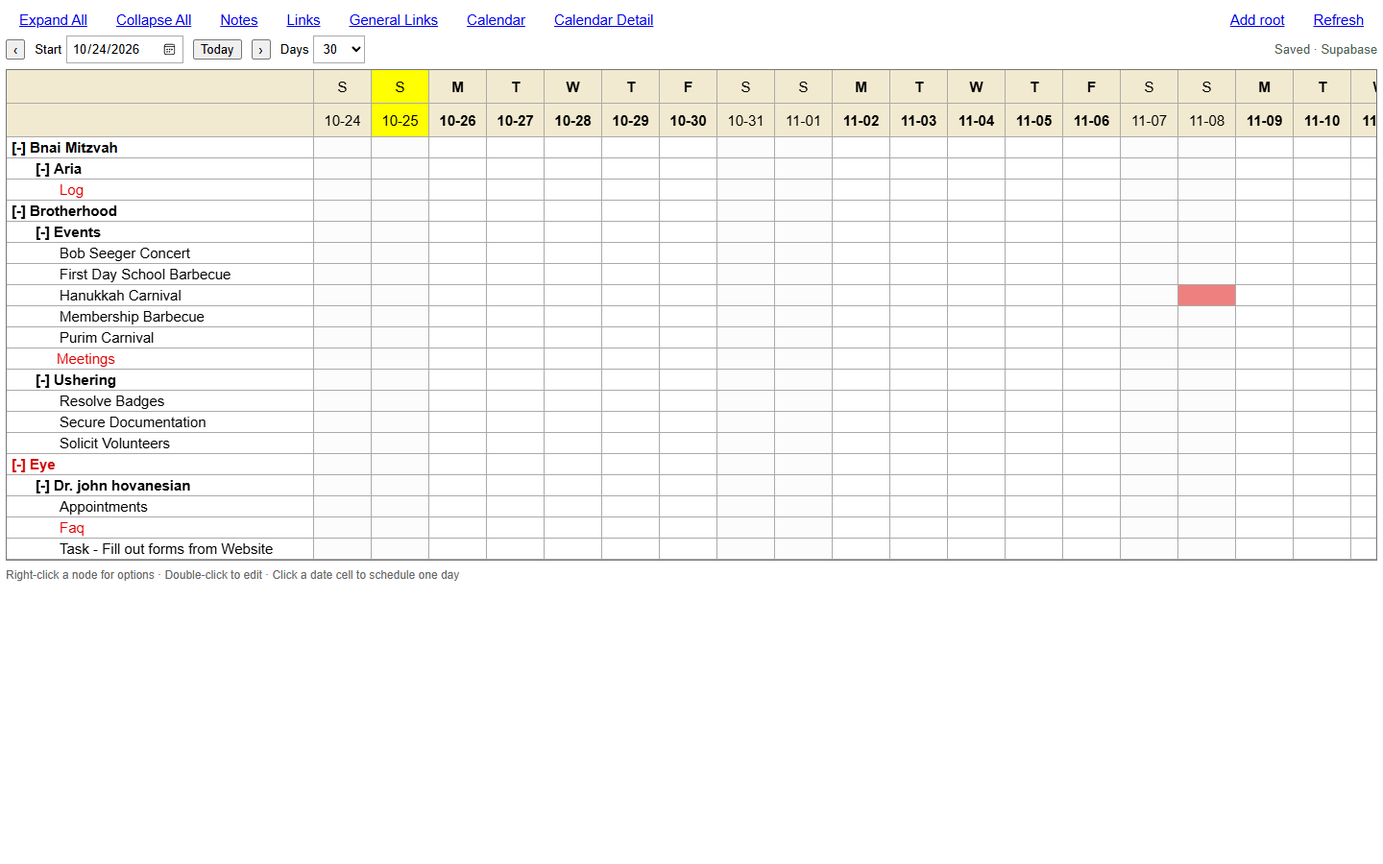
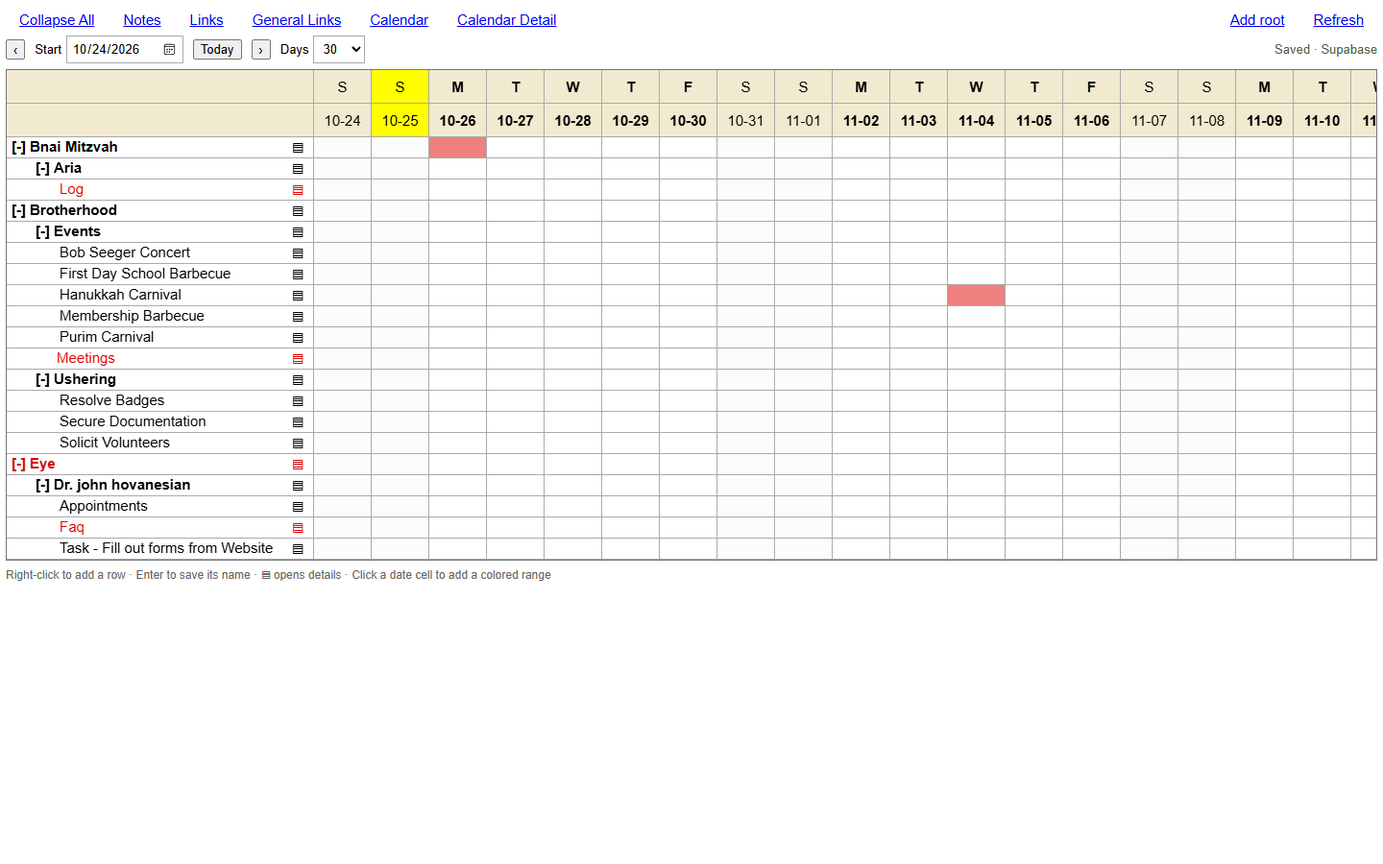
Add inline node creation, expand toggle, and multiple colored date ranges

diff --git a/src/app.js b/src/app.js
@@ -2,7 +2,7 @@ import './style.css';
 import * as api from './api.js';
 import {children,level,height,visible,actions,iso,addDays} from './model.js';
 const $=s=>document.querySelector(s), el=(tag,text)=>{const n=document.createElement(tag);if(text!==undefined)n.textContent=text;return n;};
-let nodes=[],selected=null,collapsed=new Set(JSON.parse(localStorage.getItem('gantt03-collapsed')||'[]')),busy=false,editing=null;
+let nodes=[],selected=null,collapsed=new Set(JSON.parse(localStorage.getItem('gantt03-collapsed')||'[]')),busy=false,editing=null,draft=null;
 const start=$('#range-start');start.value=addDays(iso(new Date()),-1);
 function status(message,error=false){$('#status').textContent=message;$('#status').classList.toggle('error',error);}
 function remember(){localStorage.setItem('gantt03-collapsed',JSON.stringify([...collapsed]));}
@@ -10,18 +10,58 @@ async function refresh(){try{nodes=await api.load();render();status('Saved · Su
 async function mutate(fn){if(busy)return;busy=true;status('Saving…');try{await fn();await refresh();}catch(e){status(e.message,true);throw e;}finally{busy=false;}}
 function dates(){return Array.from({length:Number($('#days').value)},(_,i)=>addDays(start.value,i));}
 function select(id){selected=id;document.querySelectorAll('.node[data-id]').forEach(n=>n.classList.toggle('selected',n.dataset.id===id));}
-function render(){const table=el('table'),head=el('thead'),days=dates();
+function render(){const parents=nodes.filter(n=>children(nodes,n.id).length),anyCollapsed=parents.some(n=>collapsed.has(n.id));$('#expand-toggle').textContent=anyCollapsed?'Expand All':'Collapse All';$('#expand-toggle').setAttribute('aria-expanded',String(!anyCollapsed));const table=el('table'),head=el('thead'),days=dates();
  for(let row=0;row<2;row++){const tr=el('tr'),blank=el('th');blank.className='node head';blank.setAttribute('aria-label',row?'Dates':'Nodes');tr.append(blank);for(const day of days){const d=new Date(day+'T12:00:00'),th=el('th',row?day.slice(5):['S','M','T','W','T','F','S'][d.getDay()]);th.className=(d.getDay()%6===0?'weekend':'weekday')+(day===iso(new Date())?' today':'');th.title=d.toLocaleDateString(undefined,{weekday:'long',year:'numeric',month:'long',day:'numeric'});tr.append(th);}head.append(tr);}table.append(head);
  const body=el('tbody');for(const node of visible(nodes,collapsed)){const tr=el('tr'),td=el('td'),hasChildren=children(nodes,node.id).length>0;td.className='node'+(hasChildren?' parent':'')+(selected===node.id?' selected':'');td.dataset.id=node.id;td.tabIndex=0;td.style.paddingLeft=`${5+(node.depth-1)*25}px`;td.style.color=node.text_color;td.title=`${node.title} · Level ${node.depth}${node.notes?' · Has notes':''}`;
  if(hasChildren){const toggle=el('button',collapsed.has(node.id)?'[+]':'[-]');toggle.className='toggle';toggle.setAttribute('aria-label',`${collapsed.has(node.id)?'Expand':'Collapse'} ${node.title}`);toggle.setAttribute('aria-expanded',String(!collapsed.has(node.id)));toggle.onclick=e=>{e.stopPropagation();collapsed.has(node.id)?collapsed.delete(node.id):collapsed.add(node.id);remember();render();};td.append(toggle);}else if(node.depth<3){const space=el('span','');space.style.display='inline-block';space.style.width='22px';td.append(space);}
- td.append(document.createTextNode(node.title));td.onclick=()=>select(node.id);td.ondblclick=()=>openEditor('Edit',node);td.oncontextmenu=e=>{e.preventDefault();select(node.id);openMenu(node,e.clientX,e.clientY);};td.onkeydown=e=>{if(e.key==='ContextMenu'||(e.shiftKey&&e.key==='F10')){e.preventDefault();const r=td.getBoundingClientRect();select(node.id);openMenu(node,r.left+30,r.bottom);}if(e.key==='Enter'){select(node.id);openEditor('Edit',node);}};tr.append(td);
- for(const day of days){const cell=el('td');const d=new Date(day+'T12:00:00');cell.className='cell'+(d.getDay()%6===0?' weekend-cell':'');if(node.start_date&&day>=node.start_date&&day<=(node.end_date||node.start_date)){cell.classList.add('bar');cell.style.setProperty('--bar',node.color);}cell.title=`${node.title} · ${day}`;cell.onclick=()=>{select(node.id);openEditor('Edit',node,day);};tr.append(cell);}body.append(tr);}table.append(body);$('#chart').replaceChildren(table);if(!nodes.length){const empty=el('p','No nodes yet. Use Add root to begin.');empty.className='empty';$('#chart').append(empty);}}
-function openMenu(node,x,y){const menu=$('#menu');menu.replaceChildren();for(const action of actions(nodes,node)){const button=el('button',action);button.setAttribute('role','menuitem');button.onclick=()=>{menu.hidden=true;if(action==='Delete')deleteNode(node);else openEditor(action,node);};menu.append(button);}menu.hidden=false;const r=menu.getBoundingClientRect();menu.style.left=`${Math.max(0,Math.min(x,innerWidth-r.width-8))}px`;menu.style.top=`${Math.max(0,Math.min(y,innerHeight-r.height-8))}px`;menu.firstChild.focus();}
+ const detail=el('button','▤');detail.className='node-detail';detail.setAttribute('aria-label',`Details for ${node.title}`);detail.onclick=e=>{e.stopPropagation();select(node.id);openEditor('Edit',node);};td.append(detail,document.createTextNode(node.title));td.onclick=()=>select(node.id);td.ondblclick=()=>openEditor('Edit',node);td.oncontextmenu=e=>{e.preventDefault();select(node.id);openMenu(node,e.clientX,e.clientY);};td.onkeydown=e=>{if(e.target!==td)return;if(e.key==='ContextMenu'||(e.shiftKey&&e.key==='F10')){e.preventDefault();const r=td.getBoundingClientRect();select(node.id);openMenu(node,r.left+30,r.bottom);}if(e.key==='Enter'){select(node.id);openEditor('Edit',node);}};tr.append(td);
+ for(const day of days){const cell=el('td');const d=new Date(day+'T12:00:00');cell.className='cell'+(d.getDay()%6===0?' weekend-cell':'');const colors=barColors(node,day);if(colors.length){cell.classList.add('bar');cell.style.setProperty('--bar',colorFill(colors));}cell.title=`${node.title} · ${day}${colors.length?' · '+colors.join(', '):''}`;cell.onclick=()=>{select(node.id);openEditor('Edit',node,day);};tr.append(cell);}if(draft?.action==='Add parent'&&draft.node.id===node.id)body.append(draftRow(days.length,node.depth));body.append(tr);if(draft?.action==='Add child'&&draft.node.id===node.id)body.append(draftRow(days.length,node.depth+1));}if(draft?.action==='Add root')body.append(draftRow(days.length,1));table.append(body);$('#chart').replaceChildren(table);if(!nodes.length&&!draft){const empty=el('p','No nodes yet. Use Add root to begin.');empty.className='empty';$('#chart').append(empty);}}
+function openMenu(node,x,y){const menu=$('#menu');menu.replaceChildren();for(const action of actions(nodes,node)){const button=el('button',action);button.setAttribute('role','menuitem');button.onclick=()=>{menu.hidden=true;if(action==='Delete')deleteNode(node);else if(action==='Edit')openEditor(action,node);else startDraft(action,node);};menu.append(button);}menu.hidden=false;const r=menu.getBoundingClientRect();menu.style.left=`${Math.max(0,Math.min(x,innerWidth-r.width-8))}px`;menu.style.top=`${Math.max(0,Math.min(y,innerHeight-r.height-8))}px`;menu.firstChild.focus();}
 document.addEventListener('pointerdown',e=>{if(!$('#menu').contains(e.target))$('#menu').hidden=true;});document.addEventListener('keydown',e=>{if(e.key==='Escape')$('#menu').hidden=true;const m=$('#menu');if(!m.hidden&&['ArrowDown','ArrowUp'].includes(e.key)){e.preventDefault();const a=[...m.children],i=a.indexOf(document.activeElement);a[(i+(e.key==='ArrowDown'?1:a.length-1))%a.length].focus();}});
-function openEditor(action,node=null,day=null){if(busy)return;if(action==='Add parent'&&level(nodes,node)+height(nodes,node)>4){showPanel('Four-level limit',content=>content.append(el('p','Adding a parent would move a descendant beyond level four. Remove or reorganize that branch first.')));return;}
- editing={action,node};const form=$('#form');form.reset();$('#form-error').textContent='';$('#dialog-title').textContent=action==='Add root'?'Add root':action;$('#dialog-context').textContent=node?`${node.title} · Level ${level(nodes,node)}`:'New level-one node';for(const name of ['title','start_date','end_date','color','text_color','notes','links']){const input=form.elements.namedItem(name);input.value=action==='Edit'?(node[name]||''):(name==='color'?'#ef8080':name==='text_color'?'#000000':'');}if(day){form.elements.start_date.value=day;form.elements.end_date.value=day;}const parentOnly=action==='Add parent';for(const name of ['start_date','end_date','color','text_color','notes','links'])form.elements.namedItem(name).closest('label').hidden=parentOnly;$('#editor').showModal();form.elements.title.focus();}
+function barRanges(node){return Array.isArray(node.bars)?node.bars:(node.start_date?[{start_date:node.start_date,end_date:node.end_date||node.start_date,color:node.color}]:[]);}
+function barColors(node,day){return [...new Set(barRanges(node).filter(b=>day>=b.start_date&&day<=(b.end_date||b.start_date)).map(b=>/^#[0-9a-f]{6}$/i.test(b.color)?b.color:'#ef8080'))];}
+function colorFill(colors){return colors.length===1?colors[0]:`linear-gradient(to bottom,${colors.map((c,i)=>`${c} ${i*100/colors.length}% ${(i+1)*100/colors.length}%`).join(',')})`;}
+function startDraft(action,node=null){
+ if(busy)return;if(draft){status('Finish or cancel the new row first.',true);$('#draft-name')?.focus();return;}
+ if(action==='Add parent'&&level(nodes,node)+height(nodes,node)>4){showPanel('Four-level limit',c=>c.append(el('p','Adding a parent would move a descendant beyond level four.')));return;}
+ if(action==='Add child'&&level(nodes,node)>=4)return;
+ draft={action,node,title:''};if(node)collapsed.delete(action==='Add child'?node.id:node.parent_id);remember();render();$('#draft-name').focus();$('#draft-name').scrollIntoView({block:'nearest',inline:'nearest'});
+}
+function draftRow(dayCount,depth){
+ const tr=el('tr'),td=el('td');tr.className='draft-row';td.className='node draft-node';td.style.paddingLeft=`${5+(depth-1)*25}px`;
+ const name=el('input');name.id='draft-name';name.placeholder='New '+(draft.action==='Add parent'?'parent':draft.action==='Add child'?'child':'root');name.setAttribute('aria-label','New node name');name.maxLength=300;name.value=draft.title;name.disabled=busy;name.oninput=()=>{draft.title=name.value;};name.onkeydown=e=>{e.stopPropagation();if(e.key==='Enter'){e.preventDefault();saveDraft(false);}if(e.key==='Escape'){draft=null;render();}};
+ const save=el('button','✓');save.setAttribute('aria-label','Save new row');save.onclick=()=>saveDraft(false);
+ const detail=el('button','▤');detail.setAttribute('aria-label','Save new row and open details');detail.onclick=()=>saveDraft(true);
+ const cancel=el('button','×');cancel.setAttribute('aria-label','Cancel new row');cancel.onclick=()=>{if(busy)return;draft=null;render();};
+ for(const b of [save,detail,cancel]){b.className='draft-action';b.disabled=busy;}
+ td.append(name,save,detail,cancel);tr.append(td);const rest=el('td');rest.colSpan=dayCount;rest.className='draft-hint';rest.textContent='Type a name · Enter or ✓ to save · ▤ for dates, colors and notes';tr.append(rest);return tr;
+}
+async function saveDraft(details){
+ if(!draft||busy)return;const pending=draft,title=pending.title.trim();if(!title){status('Enter a name for the new row.',true);$('#draft-name').focus();return;}
+ let id;try{await mutate(async()=>{if(pending.action==='Add parent'){id=await api.addParent(pending.node.id,title);}else{const parent_id=pending.action==='Add child'?pending.node.id:null;const siblings=children(nodes,parent_id);const position=pending.action==='Add child'?Math.min(0,...siblings.map(n=>n.position))-1:Math.max(0,...siblings.map(n=>n.position))+1;const [created]=await api.create({title,parent_id,position});id=created.id;}draft=null;selected=id;collapsed.delete(id);remember();});if(details){const node=nodes.find(n=>n.id===id);if(node)openEditor('Edit',node);}}catch{render();$('#draft-name')?.focus();}
+}
+function addRange(bar={}){
+ const row=el('div');row.className='bar-range';
+ for(const [name,label,type,value] of [['start_date','Start','date',bar.start_date||''],['end_date','End','date',bar.end_date||bar.start_date||''],['color','Color','color',bar.color||'#ef8080']]){const l=el('label',label),input=el('input');input.type=type;input.dataset.field=name;input.value=value;input.required=true;l.append(input);row.append(l);}
+ const remove=el('button','×');remove.type='button';remove.setAttribute('aria-label','Remove color range');remove.onclick=()=>row.remove();row.append(remove);$('#bar-ranges').append(row);return row;
+}
+$('#add-range').onclick=()=>addRange({start_date:iso(new Date()),end_date:iso(new Date())});
+function openEditor(action,node,day=null){
+ if(busy)return;editing={action,node};const form=$('#form');form.reset();$('#form-error').textContent='';$('#dialog-title').textContent='Edit node';$('#dialog-context').textContent=`${node.title} · Level ${level(nodes,node)}`;
+ for(const name of ['title','text_color','notes','links'])form.elements.namedItem(name).value=node[name]||'';
+ $('#bar-ranges').replaceChildren();for(const bar of barRanges(node))addRange(bar);
+ if(day&&!barColors(node,day).length)addRange({start_date:day,end_date:day});
+ $('#editor').showModal();form.elements.title.focus();
+}
 $('#cancel').onclick=()=>$('#editor').close();
-$('#form').onsubmit=async e=>{e.preventDefault();const form=e.currentTarget,data=Object.fromEntries(new FormData(form));data.title=data.title.trim();data.start_date=data.start_date||null;data.end_date=data.end_date||null;if(!data.title){$('#form-error').textContent='Enter a name.';return;}if(data.end_date&&(!data.start_date||data.end_date<data.start_date)){$('#form-error').textContent='Choose a start date and an end date on or after it.';return;}$('#save').disabled=true;$('#cancel').disabled=true;const {action,node}=editing;try{await mutate(async()=>{if(action==='Add parent'){await api.addParent(node.id,data.title);collapsed.delete(node.parent_id);}else if(action==='Edit'){await api.update(node.id,data);}else{const parent_id=action==='Add child'?node.id:null;const position=Math.max(0,...children(nodes,parent_id).map(n=>n.position))+1;await api.create({...data,parent_id,position});collapsed.delete(parent_id);}remember();});$('#editor').close();}catch(e){$('#form-error').textContent=e.message;}finally{$('#save').disabled=false;$('#cancel').disabled=false;}};
+$('#editor').addEventListener('cancel',e=>{if(busy)e.preventDefault();});
+$('#form').onsubmit=async e=>{
+ e.preventDefault();const form=e.currentTarget,data=Object.fromEntries(new FormData(form));data.title=data.title.trim();if(!data.title){$('#form-error').textContent='Enter a name.';return;}
+ data.bars=[...document.querySelectorAll('.bar-range')].map(row=>Object.fromEntries([...row.querySelectorAll('input')].map(input=>[input.dataset.field,input.value])));
+ if(data.bars.some(b=>!b.start_date||!b.end_date||b.end_date<b.start_date)){$('#form-error').textContent='Each color range needs an end date on or after its start date.';return;}
+ data.start_date=data.bars[0]?.start_date||null;data.end_date=data.bars[0]?.end_date||null;data.color=data.bars[0]?.color||'#ef8080';
+ $('#save').disabled=true;$('#cancel').disabled=true;try{await mutate(()=>api.update(editing.node.id,data));$('#editor').close();}catch(e){$('#form-error').textContent=e.message;}finally{$('#save').disabled=false;$('#cancel').disabled=false;}
+};
 function deleteNode(node){const count=(function descendants(id){return children(nodes,id).reduce((s,n)=>s+1+descendants(n.id),0);})(node.id);showPanel('Delete node',content=>{content.append(el('p',`Delete “${node.title}”${count?` and its ${count} descendant${count===1?'':'s'}`:''}?`));const button=el('button','Delete');button.onclick=async()=>{button.disabled=true;try{await mutate(()=>api.remove(node.id));if(selected===node.id)selected=null;$('#panel').close();}catch(e){content.append(el('p',e.message));button.disabled=false;}};content.append(button);});}
 function showPanel(title,fill){$('#panel-title').textContent=title;$('#panel-content').replaceChildren();fill($('#panel-content'));$('#panel').showModal();}
 $('#panel-close').onclick=()=>$('#panel').close();
@@ -30,8 +70,8 @@ $('#notes').onclick=()=>{const n=selectedNode();if(n){openEditor('Edit',n);$('#f
 function appendLinks(content,text){for(const line of text.split('\n').filter(l=>l.trim())){try{const url=new URL(line.trim());if(!['http:','https:'].includes(url.protocol))throw Error();const a=el('a',line);a.href=url.href;a.target='_blank';a.rel='noopener noreferrer';content.append(a,el('br'));}catch{content.append(el('p',line));}}}
 $('#links').onclick=()=>{const n=selectedNode();if(n)showPanel(`Links · ${n.title}`,c=>{if(n.links)appendLinks(c,n.links);else c.append(el('p','No links yet.'));const b=el('button','Edit links');b.onclick=()=>{$('#panel').close();openEditor('Edit',n);$('#form').elements.links.focus();};c.append(b);});};
 $('#general').onclick=async()=>{try{const [settings]=await api.request('gantt03_settings?id=eq.1');showPanel('General Links',c=>{appendLinks(c,settings.general_links);const label=el('label','URLs, one per line'),text=el('textarea');text.rows=7;text.value=settings.general_links;label.append(text);c.append(label);const save=el('button','Save links');save.onclick=async()=>{save.disabled=true;try{await mutate(()=>api.request('gantt03_settings?id=eq.1','PATCH',{general_links:text.value}));$('#panel').close();}catch(e){c.append(el('p',e.message));save.disabled=false;}};c.append(save);});}catch(e){status(e.message,true);}};
-function calendar(detail){showPanel(detail?'Calendar Detail':'Calendar',c=>{const end=addDays(start.value,Number($('#days').value)-1),scheduled=nodes.filter(n=>n.start_date&&n.start_date<=end&&(n.end_date||n.start_date)>=start.value).sort((a,b)=>a.start_date.localeCompare(b.start_date));c.append(el('p',`${start.value} — ${end}`));if(!scheduled.length)c.append(el('p','No scheduled nodes in this date range.'));for(const n of scheduled){const section=el('section'),b=el('button',`${n.start_date}${n.end_date&&n.end_date!==n.start_date?' — '+n.end_date:''} · ${n.title}`);b.className='calendar-event';b.onclick=()=>{$('#panel').close();openEditor('Edit',n);};section.append(b);if(detail){const path=[];let p=n;while(p){path.unshift(p.title);p=nodes.find(x=>x.id===p.parent_id);}section.append(el('p',path.join(' › ')),el('p',n.notes||'No notes'));appendLinks(section,n.links);}c.append(section);}});}
+function calendar(detail){showPanel(detail?'Calendar Detail':'Calendar',c=>{const end=addDays(start.value,Number($('#days').value)-1),scheduled=nodes.flatMap(n=>barRanges(n).map(bar=>({...n,...bar}))).filter(n=>n.start_date&&n.start_date<=end&&(n.end_date||n.start_date)>=start.value).sort((a,b)=>a.start_date.localeCompare(b.start_date));c.append(el('p',`${start.value} — ${end}`));if(!scheduled.length)c.append(el('p','No scheduled nodes in this date range.'));for(const n of scheduled){const section=el('section'),b=el('button',`${n.start_date}${n.end_date&&n.end_date!==n.start_date?' — '+n.end_date:''} · ${n.title}`);b.className='calendar-event';b.style.borderLeft='8px solid '+(/^#[0-9a-f]{6}$/i.test(n.color)?n.color:'#ef8080');b.onclick=()=>{$('#panel').close();openEditor('Edit',n);};section.append(b);if(detail){const path=[];let p=n;while(p){path.unshift(p.title);p=nodes.find(x=>x.id===p.parent_id);}section.append(el('p',path.join(' › ')),el('p',n.notes||'No notes'));appendLinks(section,n.links);}c.append(section);}});}
 $('#calendar').onclick=()=>calendar(false);$('#detail').onclick=()=>calendar(true);
-$('#expand').onclick=()=>{collapsed.clear();remember();render();};$('#collapse').onclick=()=>{collapsed=new Set(nodes.filter(n=>children(nodes,n.id).length).map(n=>n.id));remember();render();};
-$('#add').onclick=()=>openEditor('Add root');$('#refresh').onclick=refresh;start.onchange=()=>{if(start.value)render();};$('#days').onchange=render;$('#today').onclick=()=>{start.value=addDays(iso(new Date()),-1);render();$('#chart').scrollLeft=0;};$('#previous').onclick=()=>{start.value=addDays(start.value,-30);render();};$('#next').onclick=()=>{start.value=addDays(start.value,30);render();};
+$('#expand-toggle').onclick=()=>{const parents=nodes.filter(n=>children(nodes,n.id).length);if(parents.some(n=>collapsed.has(n.id)))collapsed.clear();else collapsed=new Set(parents.map(n=>n.id));remember();render();};
+$('#add').onclick=()=>startDraft('Add root');$('#refresh').onclick=refresh;start.onchange=()=>{if(start.value)render();};$('#days').onchange=render;$('#today').onclick=()=>{start.value=addDays(iso(new Date()),-1);render();$('#chart').scrollLeft=0;};$('#previous').onclick=()=>{start.value=addDays(start.value,-30);render();};$('#next').onclick=()=>{start.value=addDays(start.value,30);render();};
 await refresh();

diff --git a/src/style.css b/src/style.css
@@ -1,2 +1,3 @@
 *{box-sizing:border-box}body{margin:6px;font:15px Arial,sans-serif;color:#000;background:#fff}button,input,select,textarea{font:inherit}nav{display:flex;align-items:center;gap:30px;padding:6px 14px 8px;flex-wrap:wrap}nav button{border:0;padding:0;background:transparent;color:#00e;text-decoration:underline;cursor:pointer}.spacer{flex:1}.range{display:flex;align-items:center;gap:10px;margin:0 0 6px;min-height:27px;font-size:13px}.range button{cursor:pointer}.range input{font-size:13px}.range label{display:flex;gap:5px;align-items:center}#status{margin-left:auto;color:#4d6350}#status.error{color:#bc1111}main{overflow:auto;max-height:calc(100vh - 115px);border:1px solid #777;min-height:180px}table{border-collapse:separate;border-spacing:0;table-layout:fixed;width:max-content}th,td{border-right:1px solid #aaa;border-bottom:1px solid #aaa;padding:0;height:22px;min-width:60px;width:60px;text-align:center}thead{position:sticky;top:0;z-index:3}th{background:#f2ead0;font-weight:normal;height:35px}.weekday{font-weight:bold}.weekend{font-weight:normal}.today{background:#ff0!important}.node{position:sticky;left:0;z-index:2;background:#fff;width:320px;min-width:320px;max-width:320px;text-align:left;overflow:hidden;white-space:nowrap;text-overflow:ellipsis;padding-right:6px;cursor:default}.node.head{z-index:4;background:#f2ead0}.node.selected{background:#007ed5;color:#fff!important}.node.parent{font-weight:bold}.node:focus-visible{outline:2px solid #007ed5;outline-offset:-2px}.toggle{font:inherit;padding:0;border:0;background:none;color:inherit;cursor:pointer;margin-right:4px}.cell{cursor:crosshair}.cell:hover{box-shadow:inset 0 0 0 2px #007ed5}.cell.bar{background:var(--bar)}.cell.weekend-cell{background-color:#fcfcfc}.cell.bar.weekend-cell{background:var(--bar)}footer{font-size:12px;color:#666;padding-top:8px}#menu{position:fixed;z-index:10;background:#fff;border:1px solid #888;box-shadow:2px 3px 9px #0003;padding:4px;min-width:155px}#menu button{display:block;border:0;background:#fff;text-align:left;width:100%;padding:7px 12px;cursor:pointer}#menu button:hover,#menu button:focus{background:#007ed5;color:white}dialog{border:1px solid #888;border-radius:3px;max-width:min(94vw,620px);width:540px;padding:22px;max-height:90vh;overflow:auto}dialog::backdrop{background:#0004}h2{font-size:20px;margin:0 0 16px}form>label{display:flex;flex-direction:column;gap:5px;margin:12px 0}input,textarea,select{border:1px solid #aaa;padding:5px}textarea{resize:vertical}.fields{display:flex;gap:16px}.fields label{flex:1;display:flex;flex-direction:column;gap:5px;min-width:0}.fields input{width:100%}input[type=color]{height:32px}.actions{display:flex;justify-content:flex-end;gap:10px;margin-top:18px}.actions button{padding:6px 18px;cursor:pointer}#save{background:#007ed5;border:1px solid #006db8;color:white}#form-error{color:#bd1717;font-size:14px}#panel-content{white-space:pre-wrap;overflow-wrap:anywhere}#panel-content section{padding:10px 0;border-bottom:1px solid #ddd}#panel-content h3{font-size:15px;margin:0 0 6px}#panel-content textarea{width:100%}.empty{padding:32px;color:#666}.calendar-event{display:block;text-align:left;padding:4px 0;background:none;border:0;color:#00e;cursor:pointer}button:disabled{opacity:.55;cursor:wait}@media(max-width:700px){nav{gap:14px;padding-left:0}.range{flex-wrap:wrap}.node{width:260px;min-width:260px;max-width:260px}main{max-height:calc(100vh - 180px)}#status{margin-left:0}}
  [hidden]{display:none!important}
+.node-detail{float:right;border:0;background:transparent;color:inherit;cursor:pointer;padding:0 3px;font-size:15px;line-height:20px;font-weight:normal}.node-detail:hover{background:#ddd;color:#000}.draft-node{overflow:visible;background:#fff9d9;white-space:nowrap}.draft-node input{width:calc(100% - 72px);min-width:30px;font-size:14px;padding:2px}.draft-action{border:0;background:transparent;padding:2px 4px;cursor:pointer;color:#006bb6}.draft-hint{text-align:left;padding-left:10px;color:#776736;background:#fffdf1;font-size:12px}.bar-range{display:flex;gap:8px;align-items:flex-end;margin:8px 0}.bar-range label{display:flex;flex-direction:column;gap:4px;min-width:0;flex:1;font-size:13px}.bar-range label:last-of-type{flex:0 0 52px}.bar-range input{width:100%;min-width:0}.bar-range button{height:31px;cursor:pointer}fieldset{border:1px solid #bbb;margin:12px 0;padding:10px}.hint{font-size:12px;color:#666;margin-bottom:0}

diff --git a/index.html b/index.html
@@ -1,13 +1,13 @@
 <!doctype html>
 <html lang="en"><head><meta charset="UTF-8"><meta name="viewport" content="width=device-width,initial-scale=1"><title>Gantt chart</title></head><body>
 <nav aria-label="Chart controls">
- <button id="expand">Expand All</button><button id="collapse">Collapse All</button><button id="notes">Notes</button><button id="links">Links</button><button id="general">General Links</button><button id="calendar">Calendar</button><button id="detail">Calendar Detail</button>
+ <button id="expand-toggle">Collapse All</button><button id="notes">Notes</button><button id="links">Links</button><button id="general">General Links</button><button id="calendar">Calendar</button><button id="detail">Calendar Detail</button>
  <span class="spacer"></span><button id="add">Add root</button><button id="refresh">Refresh</button>
 </nav>
 <div class="range"><button id="previous" aria-label="Previous month">‹</button><label>Start <input type="date" id="range-start"></label><button id="today">Today</button><button id="next" aria-label="Next month">›</button><label>Days <select id="days"><option>30</option><option>60</option><option>90</option><option>180</option><option>365</option></select></label><span id="status" role="status">Connecting…</span></div>
 <main id="chart" tabindex="0" aria-label="Gantt chart"></main>
-<footer>Right-click a node for options · Double-click to edit · Click a date cell to schedule one day</footer>
+<footer>Right-click to add a row · Enter to save its name · ▤ opens details · Click a date cell to add a colored range</footer>
 <div id="menu" role="menu" hidden></div>
-<dialog id="editor"><form id="form"><h2 id="dialog-title">Edit node</h2><p id="dialog-context"></p><label>Name<input name="title" required maxlength="300"></label><div class="fields"><label>Start date<input type="date" name="start_date"></label><label>End date<input type="date" name="end_date"></label></div><div class="fields"><label>Bar color<input name="color" type="color" value="#ef8080"></label><label>Text color<input name="text_color" type="color" value="#000000"></label></div><label>Notes<textarea name="notes" rows="5"></textarea></label><label>Links (one URL per line)<textarea name="links" rows="3"></textarea></label><p id="form-error" role="alert"></p><div class="actions"><button type="button" id="cancel">Cancel</button><button type="submit" id="save">Save</button></div></form></dialog>
+<dialog id="editor"><form id="form"><h2 id="dialog-title">Edit node</h2><p id="dialog-context"></p><label>Name<input name="title" required maxlength="300"></label><fieldset><legend>Colored date ranges</legend><div id="bar-ranges"></div><button type="button" id="add-range">Add color range</button><p class="hint">Add as many ranges as needed. Overlapping colors share the same date cell.</p></fieldset><label>Text color<input name="text_color" type="color" value="#000000"></label><label>Notes<textarea name="notes" rows="5"></textarea></label><label>Links (one URL per line)<textarea name="links" rows="3"></textarea></label><p id="form-error" role="alert"></p><div class="actions"><button type="button" id="cancel">Cancel</button><button type="submit" id="save">Save</button></div></form></dialog>
 <dialog id="panel"><h2 id="panel-title"></h2><div id="panel-content"></div><div class="actions"><button id="panel-close">Close</button></div></dialog>
 <script type="module" src="/src/app.js"></script></body></html>

diff --git a/README.md b/README.md
@@ -15,9 +15,9 @@ npm run dev
 
 - Right-click a node (or Shift+F10): **Add parent, Add child, Edit, Delete**. Level four has only **Edit, Delete**.
 - Add parent wraps a node and its branch. A wrapper that would exceed four levels is rejected atomically. The database also rejects cycles and fifth-level inserts.
-- Add root creates a level-one node. Delete removes the selected node and all descendants after confirmation.
-- Double-click a node to edit its name, dates, colors, notes, or links. Click a date cell to open the editor with that day selected; clearing both dates removes the bar.
-- Expand All / Collapse All and individual [+] / [-] controls manage branches. Collapse choices persist in this browser.
+- Add root, Add child, and Add parent insert an inline name row. Enter or ✓ saves it; ▤ saves it and opens details; × cancels the draft. Add root creates a level-one node. Delete removes the selected node and all descendants after confirmation.
+- Use ▤ or double-click a node to edit its name, colored date ranges, text color, notes, or links. Add color range adds another independently colored bar on the same row. Overlaps appear as horizontal stripes. Remove a range with ×. Clicking an unscheduled date appends a one-day range without replacing existing ranges.
+- One link toggles between Expand All and Collapse All. Individual [+] / [-] controls manage branches. Collapse choices persist in this browser.
 - Notes and Links act on the selected node. General Links are shared. Calendar and Calendar Detail show scheduled nodes within the visible date range.
 - Use Refresh to see changes from another session.
 
@@ -32,7 +32,7 @@ npm run build
 node scripts/browser-check.mjs
 ```
 
-The browser check creates and cleans up its own temporary branch in Supabase. `supabase/schema.sql` records the initial schema and reference seed; it has already been applied to the connected project and should not be rerun there.
+The browser check creates and cleans up its own temporary branch in Supabase. `supabase/schema.sql` records the initial schema and reference seed; `supabase/add-colored-ranges.sql` adds multiple colors while preserving the prior schedule. Both have already been applied to the connected project and should not be rerun there.
 
 ## Hosting
 
